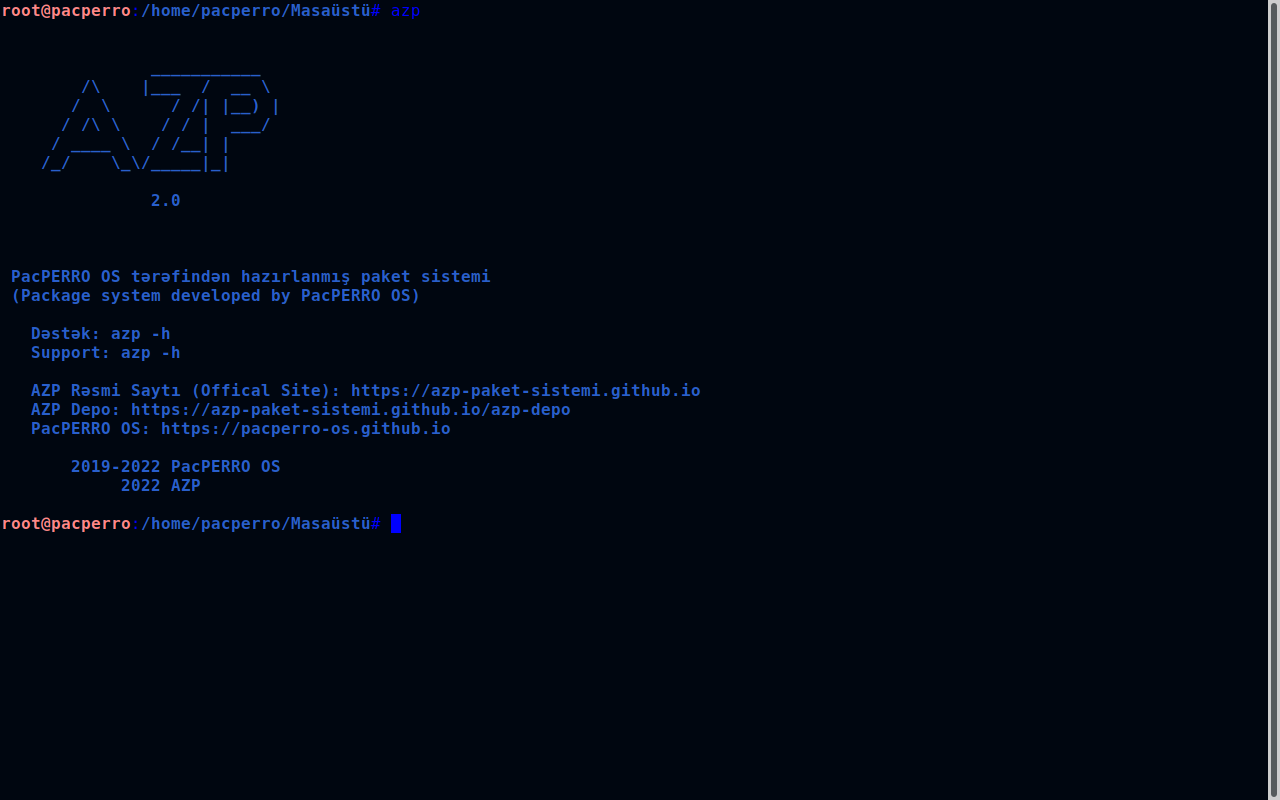
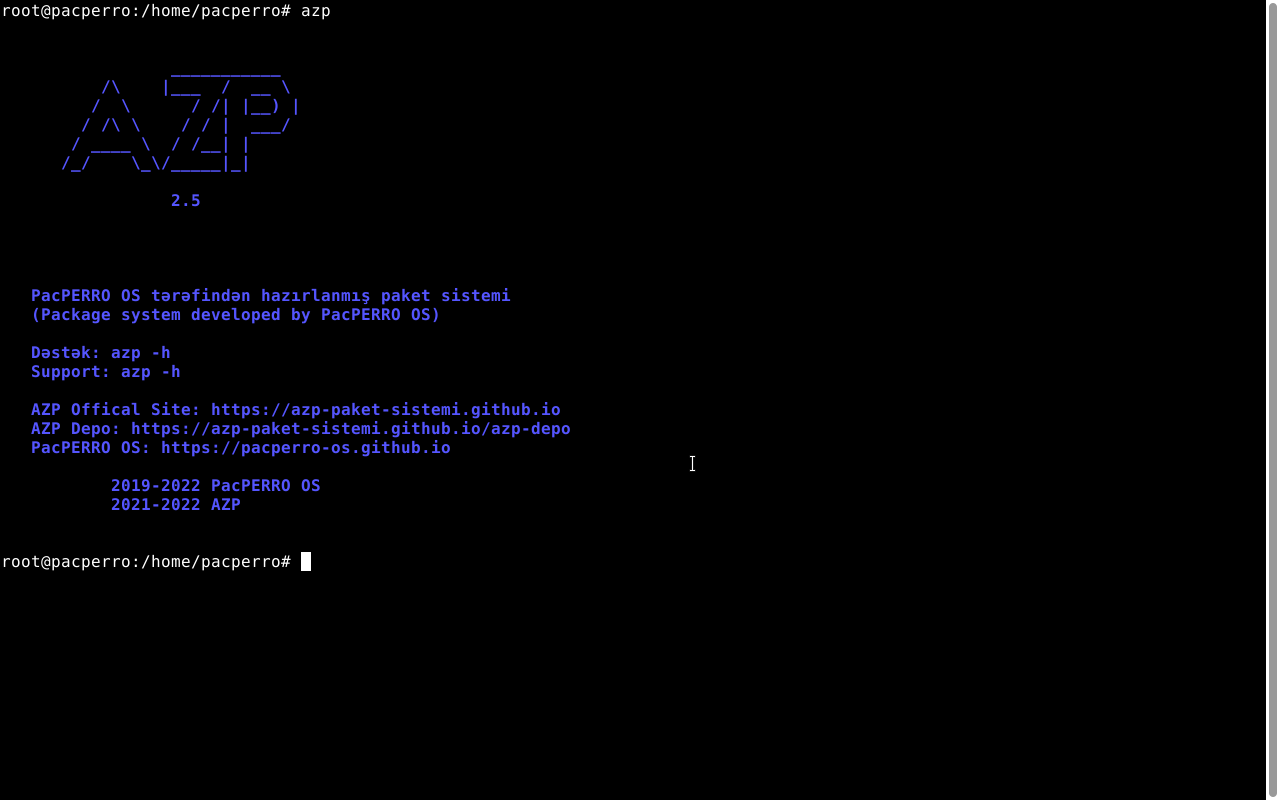
AZP Offical Site

diff --git a/index.html b/index.html
@@ -13,7 +13,7 @@
   <a href="https://azp-paket-sistemi.github.io/azp-depo"><b>AZP Depo</b></a>
   <a href="https://azp-paket-sistemi.github.io/azp-paket-hazırlama.html"><b>AZP Paket Hazırlama</b></a>
   <a href="https://azp-paket-sistemi.github.io/azp-haqqında.html"><b>AZP Haqqında</b></a>
- </div>
+</div>
 <hr size="1" color="blue">
 
   <h1 id="başlıq">AZP</h1>
@@ -22,9 +22,10 @@
   <p><img src="img/azp-ss1.png" alt="" width="700" height="450"></p>
   <p><img src="img/azp-ss2.png" alt="" width="700" height="450"></p>
   <p><img src="img/azp-ss3.png" alt="" width="700" height="450"></p>
+  <p><img src="img/azp-ss4.png" alt="" width="700" height="450"></p>
   <p id="açıqlama">AZP, <a href="https://pacperro-os.github.io"><strong>PacPERRO OS</strong></a> tərəfindən inkişaf etdirilən və bütün Linux distrolarına çalışabilən bir paket sistemidir. Paket sistemi Bash Script ilə yazılmışdır. Açıq qaynaqlı və güvənlidir. AZP paket sistemi əsasən <a href="https://debian.org"><strong>Debian</strong></a> və <a href="https://ubuntu.com"><strong>Ubuntu</strong></a> bazalı distrolar üçün yazılmış bir paket sistemi olsada, bütün Linux distrolarında çalışa bilər.</p>
   <p> Öz azp paketinizi yaratmaq üçün <strong>AZP Paket Hazırlama</strong> səhifəsindən yardım ala bilərsiniz</p>
-  <b> AZP'ni <a href="https://github.com/AZP-Paket-Sistemi/AZP/raw/main/azp-2.0-2.deb">buradan</a> yükləyin<b>
+  <b> AZP'ni <a href="https://github.com/AZP-Paket-Sistemi/AZP/raw/main/azp-2.5.deb">buradan</a> yükləyin<b>
 
 
  <div class="paket-sistemi-bağlantılar">

diff --git a/azp-versiyalar.html b/azp-versiyalar.html
@@ -29,6 +29,9 @@
     <li><a href="https://github.com/AZP-Paket-Sistemi/AZP/raw/main/azp-2.0.deb"><b>AZP 2.0</b></a></li>
     <li><a href="https://github.com/AZP-Paket-Sistemi/AZP/raw/main/azp-2.0-1.deb"><b>AZP 2.0-1</b></a></li>
     <li><a href="https://github.com/AZP-Paket-Sistemi/AZP/raw/main/azp-2.0-2.deb"><b>AZP 2.0-2</b></a></li>
+    <br>
+    <b>AZP 2.5<b>
+    <li><a href="https://github.com/AZP-Paket-Sistemi/AZP/raw/main/azp-2.5.deb"><b>AZP 2.5</b></a></li>
   </ul>
 </div>
 </div>

diff --git a/css/style2.css b/css/style2.css
@@ -4,14 +4,14 @@
 }
 
 #başlıq { color: #002DFF;
-          font-family: Arial;
+          font-family: sans-serif;
 }
 
 p { font-family: sans-serif;
 }
 
 #cp { color: #12ff34;
-    font-family: Arial;
+    font-family: sans-serif;
     font-size: 20px;
 }
 
